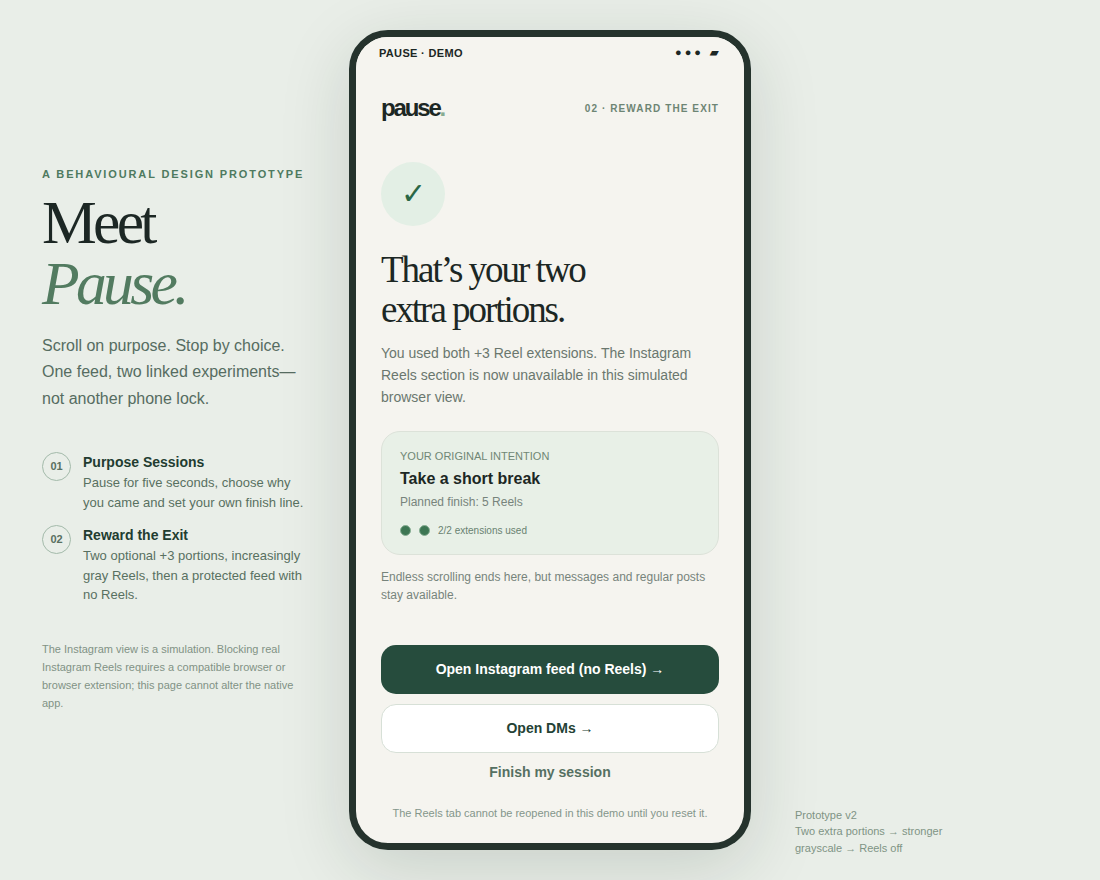
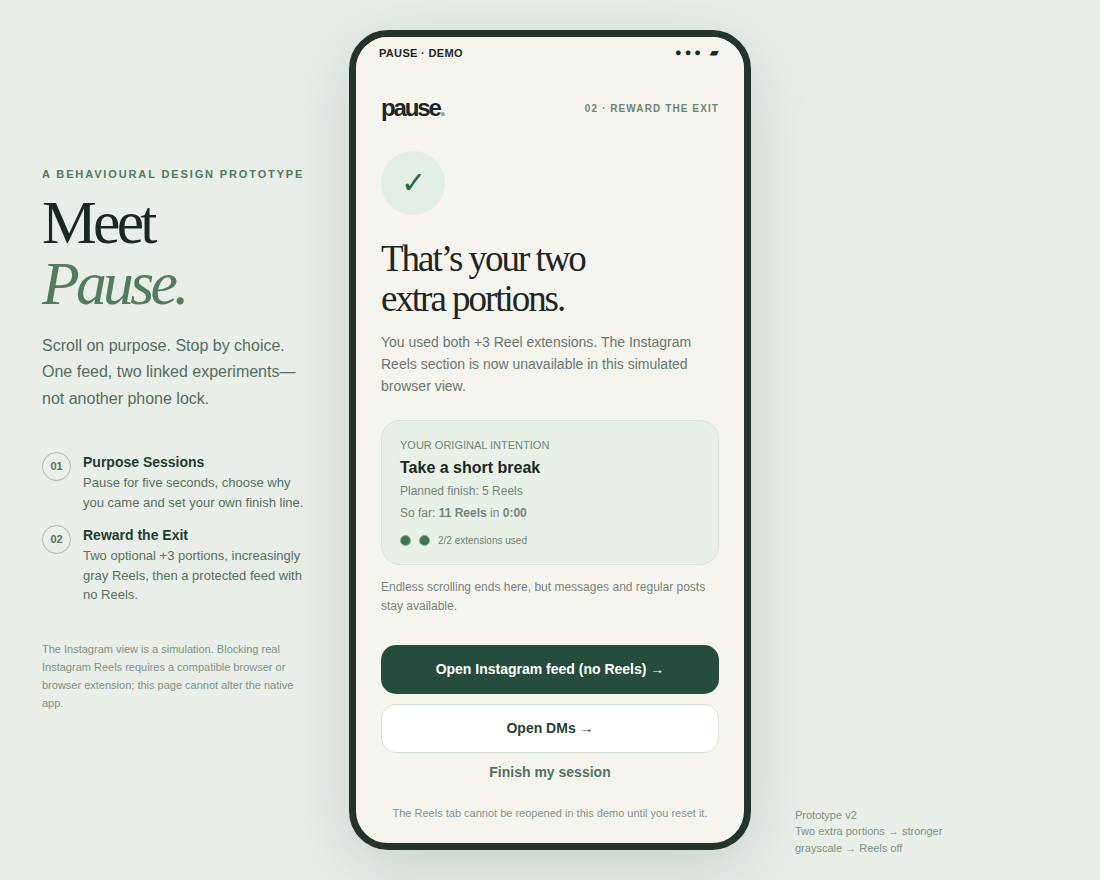
Show Reels and time together; real learning cards; personal exit options
- Instagram-style app icon on the home screen
- The Reels counter always shows count and time (e.g. 17 Reels · 1:52 / 2:00);
  the checkpoint repeats it
- Commitment 3 asks what you're curious about (psychology, finance, science,
  history, languages); the learning detour shows one short card per interest
  with a clear ending
- Exit suggests up to three optional next steps matched to reason for opening,
  interest and available time (2/10/30 min), including a two-minute puzzle;
  "I'm done for now" is always available
- README and preview images updated

Claude-Session: https://claude.ai/code/session_01DMhTpXsU3YFuW6W5HLrjFW

Changed region(s): [[0.34, 0.2761, 0.6491, 0.4602], [0.34, 0.4909, 0.6491, 0.7057], [0.3709, 0.1841, 0.4018, 0.2148]]

diff --git a/index.html b/index.html
@@ -144,6 +144,19 @@
     .phone-home{position:relative}
     .ph-toast{position:absolute;left:50%;bottom:170px;transform:translateX(-50%);background:rgba(20,32,36,.9);color:#fff;font-size:13px;padding:9px 14px;border-radius:12px;white-space:nowrap;opacity:0;transition:opacity .2s;pointer-events:none}
     .ph-toast.show{opacity:1}
+    .reel-cam{justify-self:end;width:26px;height:26px}.reel-cam svg{width:26px;height:26px}
+    .reel-stats{position:absolute;top:70px;left:50%;transform:translateX(-50%);z-index:3;font-size:11.5px;font-weight:650;padding:5px 11px;border-radius:999px;background:rgba(0,0,0,.45);white-space:nowrap;font-variant-numeric:tabular-nums}
+    .reel-stats.gray{background:rgba(40,40,40,.7)}
+    .lesson-card{gap:10px}.lesson-card p{margin:0}
+    .try-this{background:#fffefa;border:1px solid #d6e4d6;border-radius:12px;padding:10px 12px;font-size:13px;line-height:1.5;color:#35523f}.try-this b{display:block;font-size:11px;letter-spacing:.08em;text-transform:uppercase;color:#4e7a5f;margin-bottom:3px}
+    .card-source{font-size:11px!important;color:#7d917f!important}
+    .card-end{font-size:12px!important;font-weight:700;color:#305c45!important;border-top:1px solid #cfdccf;padding-top:8px}
+    .next-list{display:grid;gap:8px}
+    .next-opt{position:relative;display:flex;flex-direction:column;align-items:flex-start;gap:2px;text-align:left;border:1px solid #dfe5dc;background:#fffefa;border-radius:14px;padding:11px 60px 11px 13px;color:#244235}
+    .next-opt b{font-size:13.5px}.next-opt span{font-size:12px;color:#6d7b6e}
+    .next-opt em{position:absolute;right:12px;top:12px;font-style:normal;font-size:11px;font-weight:700;color:#5c7d66;background:#e7f0e7;border-radius:999px;padding:2px 8px}
+    .next-opt.picked{border-color:#57886a;background:#e4efe6;box-shadow:inset 0 0 0 1px #57886a}
+    .next-note{margin-top:10px;font-size:12.5px;color:#31533c;text-align:center}
   </style>
 </head>
 <body>
@@ -170,20 +183,35 @@
   const OPTIONS={
     reasons:[['friends','Catch up with friends'],['break','Take a short break'],['learn','Find something useful'],['habit','Just felt like scrolling']],
     limits:[['5','5 Reels'],['10','10 Reels'],['120','2 minutes']],
-    afters:[['reading','Read something'],['move','Move a little'],['learn','Learn something'],['rest','Rest my eyes']]
+    interests:[['psychology','Psychology'],['finance','Finance'],['science','Science'],['history','History'],['languages','Languages']]
   };
-  const lessons={
-    reading:{label:'Reading · 30 seconds',title:'The one-sentence takeaway',body:'Think of the last article or chapter you enjoyed. Can you explain its most interesting idea in one sentence?'},
-    move:{label:'Movement · 30 seconds',title:'The posture reset',body:'Stand up, relax your shoulders and slowly look left and right. Notice whether your body feels different from a moment ago.'},
-    learn:{label:'Curiosity · 30 seconds',title:'Explain it like a beginner',body:'Pick something you learned recently. Try explaining it aloud in two sentences without using jargon.'},
-    rest:{label:'Mindful break · 30 seconds',title:'Notice three details',body:'Look away from your screen and notice three details in your surroundings you normally overlook.'}
+  /* One short card per interest, each with a clear ending. */
+  const CARDS={
+    psychology:{title:'Why you keep checking: variable rewards',body:['In the 1950s, B. F. Skinner found that animals rewarded on an unpredictable schedule kept pressing a lever far longer than animals rewarded every time. Not knowing when the next reward comes is what keeps the behaviour going.','Feeds work the same way. Most posts are forgettable, but now and then one is great, and you can’t tell which swipe will bring it. So “just one more” always feels worth it.'],tryThis:'Next time you reach for a refresh, notice the little “maybe this one” feeling. Naming it makes it easier to put the phone down.',source:'Based on Ferster & Skinner, Schedules of Reinforcement (1957).'},
+    finance:{title:'The rule of 72',body:['To estimate how long money takes to double, divide 72 by the yearly growth rate. At 6% a year, savings double in about 12 years (72 ÷ 6). At 9%, about 8 years.','It works backwards too: debt at 18% a year doubles in about 4 years if you don’t pay it down. The same maths that builds savings also makes debt grow fast.'],tryThis:'Look up the interest rate on one account or card you have and divide 72 by it.',source:'A standard approximation for compound growth; most accurate between about 4% and 12%.'},
+    science:{title:'Why the sky is blue',body:['Sunlight contains every colour. As it passes through the air, tiny gas molecules scatter short wavelengths (blue) much more strongly than long ones (red). That scattered blue light reaches your eyes from every direction, so the whole sky looks blue.','At sunset, light travels through far more air to reach you. Most of the blue is scattered away before it arrives, leaving the oranges and reds.'],tryThis:'Next sunset, notice that the sky overhead often stays blue while the horizon turns orange.',source:'This effect is called Rayleigh scattering.'},
+    history:{title:'The printing press changed who could know things',body:['Around 1440, Johannes Gutenberg in Mainz combined movable metal type with a screw press. Before that, most books in Europe were copied by hand, and a single book could take months.','Within about 50 years, printing presses were running in more than 200 European cities. Books became cheaper, ideas spread faster, and far more people could read for themselves.'],tryThis:'Think about which modern invention you’d compare to it, and why.',source:'Gutenberg’s printing began in Mainz in the 1440s–1450s.'},
+    languages:{title:'Saudade (Portuguese)',body:['Saudade is a Portuguese word for a deep, bittersweet longing for someone or something you love that is absent, and may never come back. It mixes sadness with warmth, because missing something means it mattered.','It’s often called untranslatable. English needs a whole sentence for what Portuguese says in one word.'],tryThis:'Say it out loud: “sow-DAH-jee” (Brazilian) or “sow-DAHD” (European). Who or what do you feel saudade for?',source:'A central idea in Portuguese and Brazilian music, especially fado.'}
   };
-  const alternatives={
-    reading:{title:'Read just two pages',desc:'Start with a book, article or saved piece you actually want to read.',emoji:'▤'},
-    move:{title:'Take a two-minute walk',desc:'Get up, stretch or step outside. A tiny change of scene counts.',emoji:'↗'},
-    learn:{title:'Learn one useful thing',desc:'Try a 30-second micro-learning card from your interests.',emoji:'✦'},
-    rest:{title:'Take a proper breather',desc:'Put the phone down and give your eyes a few screen-free moments.',emoji:'◌'}
-  };
+  /* Two-minute puzzles with a clear answer (classic cognitive-reflection questions). */
+  const PUZZLES=[
+    {q:'A bat and a ball cost $1.10 in total. The bat costs $1.00 more than the ball. How much does the ball cost?',a:'5 cents. (Not 10: then the bat would be $1.10 and the total $1.20.)'},
+    {q:'If 5 machines take 5 minutes to make 5 widgets, how long would 100 machines take to make 100 widgets?',a:'5 minutes. Each machine makes one widget in 5 minutes.'},
+    {q:'A patch of lily pads doubles in size every day. It takes 48 days to cover the whole lake. How long to cover half the lake?',a:'47 days. One more doubling covers the rest.'}
+  ];
+  /* Optional next steps, matched to the reason for opening, the interest and the time available. */
+  const NEXT=[
+    {id:'card',mins:2,reasons:['learn','habit','break','friends'],title:i=>`Learn one thing about ${i}`,desc:'A one-minute card with a clear ending.'},
+    {id:'puzzle',mins:2,reasons:['habit','break'],title:()=>'Try a two-minute puzzle',desc:'One question, one answer. Then you’re done.'},
+    {id:'message',mins:2,reasons:['friends'],title:()=>'Message one friend directly',desc:'Skip the feed and send one real message.'},
+    {id:'eyes',mins:2,reasons:['break'],title:()=>'Rest your eyes',desc:'Look at something far away for twenty seconds.'},
+    {id:'walk',mins:10,reasons:['habit','break'],title:()=>'Take a short walk',desc:'A change of scene, no phone needed.'},
+    {id:'call',mins:10,reasons:['friends'],title:()=>'Call someone you’ve been meaning to',desc:'Ten minutes of real conversation.'},
+    {id:'article',mins:10,reasons:['learn','habit'],title:i=>`Read a saved article about ${i}`,desc:'Something you chose earlier, not something the feed chose.'},
+    {id:'podcast',mins:30,reasons:['learn','break','habit'],title:i=>`Listen to a ${i} podcast episode`,desc:'Good on a walk, too.'},
+    {id:'plan',mins:30,reasons:['friends'],title:()=>'Plan a meetup',desc:'Turn “we should hang out” into a date.'}
+  ];
+  const TIMES=[['2','2 minutes'],['10','10 minutes'],['30','30 minutes']];
   /* Photos: Kodak Lossless True Color Image Suite, released by Eastman Kodak for unrestricted use. */
   const FEED=[
     {img:'kodim23',pos:'45% 50%',user:'birdwatch.daily',color:'#2f8f5b',cap:'Two very talkative neighbours 🦜',audio:'Original audio',likes:'48.2K',comments:'612'},
@@ -201,13 +229,13 @@
     {img:'kodim10',pos:'50% 45%',user:'regatta.club',color:'#e0a100',cap:'Leaning into it.',audio:'Sea Breeze · regatta.club',likes:'11.3K',comments:'152'},
     {img:'kodim24',pos:'60% 50%',user:'alpine.villages',color:'#7a5a3c',cap:'Every house here is painted by hand.',audio:'Original audio',likes:'26.8K',comments:'377'}
   ];
-  const defaults={reason:'break',limit:'5',after:'reading',grayscale:true,platform:'instagram'};
+  const defaults={reason:'break',limit:'5',interest:'psychology',freeTime:'10',grayscale:true,platform:'instagram'};
   let saved={};try{saved=JSON.parse(localStorage.getItem('pause_prefs')||'{}')||{}}catch(e){}
   let prefs={...defaults,...saved,platform:'instagram'};
   // New v2 default is on even for people who turned off the experimental v1 setting.
   try{if(localStorage.getItem('pause_prefs_version')!=='2')prefs.grayscale=true;}catch(e){}
   let existingGate=false;try{existingGate=sessionStorage.getItem('pause_instagram_reels_disabled')==='true'}catch(e){}
-  let state={screen:'home',countdown:5,learnFrom:'pause',reason:prefs.reason,limit:prefs.limit,after:prefs.after,grayscale:prefs.grayscale,platform:prefs.platform||'instagram',views:0,checkpoint:5,progress:0,elapsed:0,sessionStart:0,noticeShown:false,notice:false,finishedBy:'',history:[],extraRounds:0,extraRoundStart:0,reelsDisabled:existingGate,restrictedTab:'feed',activeChat:'Alex',messages:{Alex:[],Sam:[],Maya:[]}};
+  let state={screen:'home',countdown:5,learnFrom:'pause',reason:prefs.reason,limit:prefs.limit,interest:OPTIONS.interests.some(x=>x[0]===prefs.interest)?prefs.interest:'psychology',freeTime:prefs.freeTime||'10',nextPick:'',puzzle:0,grayscale:prefs.grayscale,platform:prefs.platform||'instagram',views:0,checkpoint:5,progress:0,elapsed:0,sessionStart:0,noticeShown:false,notice:false,finishedBy:'',history:[],extraRounds:0,extraRoundStart:0,reelsDisabled:existingGate,restrictedTab:'feed',activeChat:'Alex',messages:{Alex:[],Sam:[],Maya:[]}};
   let countdownTimer=null,feedTimer=null,noticeTimer=null,lastTick=0,lastWheel=0,touchY=null;
   const esc=s=>String(s).replace(/[&<>"']/g,c=>({'&':'&amp;','<':'&lt;','>':'&gt;','"':'&quot;',"'":'&#39;'}[c]));
   const selected=(kind,v)=>state[kind]===v?' selected':'';
@@ -215,9 +243,11 @@
   const brand=()=>'<span class="brand" aria-label="Pause">pause<i>.</i></span>';
   const step=n=>`<span class="step-label">${n}</span>`;
   const time=secs=>{const s=Math.max(0,Math.floor(secs));return `${Math.floor(s/60)}:${String(s%60).padStart(2,'0')}`};
-  const save=()=>{prefs={reason:state.reason,limit:state.limit,after:state.after,grayscale:state.grayscale,platform:state.platform};try{localStorage.setItem('pause_prefs',JSON.stringify(prefs));localStorage.setItem('pause_prefs_version','2')}catch(e){}};
+  const save=()=>{prefs={reason:state.reason,limit:state.limit,interest:state.interest,freeTime:state.freeTime,grayscale:state.grayscale,platform:state.platform};try{localStorage.setItem('pause_prefs',JSON.stringify(prefs));localStorage.setItem('pause_prefs_version','2')}catch(e){}};
   const grayPercent=()=>{if(!state.grayscale||state.extraRounds===0)return 0;const n=Math.max(0,Math.min(2,state.views-state.extraRoundStart))+Math.min(1,state.progress/100);return Math.min(100,Math.round((state.extraRounds===1?35:70)+n*10));};
-  const displayCount=()=>state.extraRounds?`Extra ${Math.min(3,state.views-state.extraRoundStart+1)} / 3`:state.limit==='120'?`${time(state.elapsed)} / 2:00`:`${state.views} / ${state.checkpoint} Reels`;
+  const displayCount=()=>{const t=time(state.elapsed);
+    if(state.extraRounds)return `Extra ${Math.min(3,state.views-state.extraRoundStart+1)} of 3 · ${state.views} Reels · ${t} · ${grayPercent()}% gray`;
+    return state.limit==='120'?`${state.views} Reels · ${t} / 2:00`:`${state.views} / ${state.checkpoint} Reels · ${t}`;};
   const protectInstagram=()=>{if(state.platform==='instagram'){state.reelsDisabled=true;try{sessionStorage.setItem('pause_instagram_reels_disabled','true')}catch(e){}}};
   const clearTimers=()=>{clearInterval(countdownTimer);clearInterval(feedTimer);clearTimeout(noticeTimer);countdownTimer=feedTimer=noticeTimer=null;};
   const render=()=>{root.className='screen '+(state.screen==='home'?'home-screen':state.screen==='feed'?'feed-screen':state.screen==='setup'?'setup-panel':state.screen.startsWith('protected-')?'protected-screen':'');
@@ -225,6 +255,7 @@
     if(state.screen==='pause')root.innerHTML=pause();
     if(state.screen==='setup')root.innerHTML=setup();
     if(state.screen==='learn')root.innerHTML=learn();
+    if(state.screen==='puzzle')root.innerHTML=puzzle();
     if(state.screen==='feed')root.innerHTML=feed();
     if(state.screen==='checkpoint')root.innerHTML=checkpoint();
     if(state.screen==='exit')root.innerHTML=exitScreen();
@@ -259,27 +290,37 @@
   </div>`}
   function setup(){const reasonOpts=OPTIONS.reasons.map(([k,v])=>`<button class="pill${selected('reason',k)}" data-set="reason" data-value="${k}" aria-pressed="${state.reason===k}">${v}</button>`).join('');
     const limitOpts=OPTIONS.limits.map(([k,v])=>`<button class="pill${selected('limit',k)}" data-set="limit" data-value="${k}" aria-pressed="${state.limit===k}">${v}</button>`).join('');
-    const afterOpts=OPTIONS.afters.map(([k,v])=>`<button class="pill${selected('after',k)}" data-set="after" data-value="${k}" aria-pressed="${state.after===k}">${v}</button>`).join('');
+    const interestOpts=OPTIONS.interests.map(([k,v])=>`<button class="pill${selected('interest',k)}" data-set="interest" data-value="${k}" aria-pressed="${state.interest===k}">${v}</button>`).join('');
     return `<div class="inner">
       <div class="brand-row"><button class="btn text btn-sm" data-action="back-pause">← Back</button>${step('01 · PURPOSE SESSIONS')}</div>
       <h2 style="margin:16px 0 6px">Three little<br/>commitments.</h2><p class="lede" style="margin-bottom:19px">Set them once. Change them anytime.</p>
       <section class="card rule-card"><div class="rule-label"><span class="rule-number">1</span> Why am I here?</div><div class="pill-grid">${reasonOpts}</div></section>
       <section class="card rule-card"><div class="rule-label"><span class="rule-number">2</span> Where's my finish line?</div><div class="pill-grid three">${limitOpts}</div></section>
-      <section class="card rule-card"><div class="rule-label"><span class="rule-number">3</span> What might I do afterwards?</div><div class="pill-grid">${afterOpts}</div></section>
+      <section class="card rule-card"><div class="rule-label"><span class="rule-number">3</span> What are you curious about?</div><div class="pill-grid three">${interestOpts}</div></section>
     </div>
     <div class="setup-footer"><div class="switch-row gray-setting"><span><b>Progressive grayscale</b><br/><span style="font-size:10px">On by default · starts with the first +3 Reels</span></span><button role="switch" aria-checked="${state.grayscale}" aria-label="Progressive grayscale" class="switch${state.grayscale?' on':''}" data-action="grayscale"></button></div><button class="btn full" data-action="start-feed">Start my session →</button><p class="tip">The first portion stays colourful. Each extra portion gets grayer.</p></div>`;
   }
-  function learn(){const lesson=lessons[state.after];return `<div class="inner">
-     <div class="brand-row"><button class="btn text btn-sm" data-action="learn-back">← Back</button>${step('A MEANINGFUL DETOUR')}</div>
+  function learn(){const c=CARDS[state.interest];const label=nameOf(OPTIONS.interests,state.interest);return `<div class="inner">
+     <div class="brand-row"><button class="btn text btn-sm" data-action="learn-back">← Back</button>${step('LEARN ONE THING')}</div>
+     <h2 style="margin:14px 0 6px">One thing worth<br/>knowing.</h2>
+     <p class="lede" style="margin-bottom:14px">Pick what you’re curious about. One card, then you’re done.</p>
+     <div class="pill-grid three" style="margin-bottom:14px">${OPTIONS.interests.map(([k,v])=>`<button class="pill${selected('interest',k)}" data-set="interest" data-value="${k}" aria-pressed="${state.interest===k}">${v}</button>`).join('')}</div>
+     <article class="lesson-card"><span class="mini-eyebrow">${label} · 1-minute read</span><h3>${c.title}</h3>${c.body.map(t=>`<p>${t}</p>`).join('')}
+       <div class="try-this"><b>Try this</b>${c.tryThis}</div>
+       <p class="card-source">${c.source}</p>
+       <p class="card-end">That’s the whole card.</p></article>
      <div class="spacer"></div>
-     <h2>One small thing<br/>instead of a scroll.</h2>
-     <p class="lede" style="margin-bottom:24px">Your interests don't need an infinite feed. Try this 30-second exercise.</p>
-     <div class="section-title">Choose a topic</div>
-     <div class="pill-grid" style="margin-bottom:16px">${OPTIONS.afters.map(([k,v])=>`<button class="pill${selected('after',k)}" data-set="after" data-value="${k}">${v}</button>`).join('')}</div>
-     <div class="lesson-card"><span class="mini-eyebrow">${lesson.label}</span><h3>${lesson.title}</h3><p>${lesson.body}</p></div>
+     <button class="btn full" data-action="learn-complete">Done, I learned one thing ✓</button>
+     <button class="btn text full" data-action="learn-back">Back</button>
+   </div>`}
+  function puzzle(){const pz=PUZZLES[state.puzzle%PUZZLES.length];return `<div class="inner">
+     <div class="brand-row"><button class="btn text btn-sm" data-action="puzzle-back">← Back</button>${step('TWO-MINUTE PUZZLE')}</div>
      <div class="spacer"></div>
-     <button class="btn full" data-action="learn-complete">That was enough for now ✓</button>
-     <button class="btn text full" data-action="learn-back">Return to my plan</button>
+     <article class="lesson-card"><span class="mini-eyebrow">Think before you answer</span><h3 style="font-size:23px">${pz.q}</h3>
+       ${state.puzzleShown?`<div class="try-this"><b>Answer</b>${pz.a}</div><p class="card-end">That’s it. Puzzle done.</p>`:''}</article>
+     <div class="spacer"></div>
+     ${state.puzzleShown?'<button class="btn full" data-action="go-home">Done ✓</button>':'<button class="btn full" data-action="puzzle-reveal">Show the answer</button>'}
+     <button class="btn text full" data-action="puzzle-back">Back</button>
    </div>`}
   const ICON={
     heart:'<svg viewBox="0 0 24 24" fill="none" stroke="currentColor" stroke-width="1.9" stroke-linejoin="round"><path d="M12 20.3s-7.6-4.6-9.2-9.3C1.7 7.6 4 4.5 7.3 4.5c2 0 3.6 1.1 4.7 2.8 1.1-1.7 2.7-2.8 4.7-2.8 3.3 0 5.6 3.1 4.5 6.5-1.6 4.7-9.2 9.3-9.2 9.3z"/></svg>',
@@ -312,7 +353,7 @@
     ['Settings','#8e8e93',`<svg viewBox="0 0 24 24" fill="none" stroke="#fff" stroke-width="1.8" stroke-linecap="round" stroke-linejoin="round"><circle cx="12" cy="12" r="3"/><path d="M12 3.5v2.3M12 18.2v2.3M3.5 12h2.3M18.2 12h2.3M6 6l1.6 1.6M16.4 16.4 18 18M6 18l1.6-1.6M16.4 7.6 18 6"/></svg>`],
     ['Files','#2f7de1',`<svg viewBox="0 0 24 24" fill="none" stroke="#fff" stroke-width="1.8" stroke-linecap="round" stroke-linejoin="round"><path d="M4 7h6l2 2h8v10H4z"/></svg>`]
   ]};
-  const IG_GLYPH='<svg viewBox="0 0 24 24" fill="none" stroke="#fff" stroke-width="1.8" stroke-linejoin="round"><path d="M4 8.5h3l1.6-2.5h6.8L17 8.5h3V19H4z"/><circle cx="12" cy="13.3" r="3.4"/></svg>';
+  const IG_GLYPH='<svg viewBox="0 0 24 24" fill="none" stroke="#fff" stroke-width="2"><rect x="3.5" y="3.5" width="17" height="17" rx="5"/><circle cx="12" cy="12" r="4"/><circle cx="17.1" cy="6.9" r="1.1" fill="#fff" stroke="none"/></svg>';
   function currentReel(){return FEED[(Math.max(1,state.views)-1)%FEED.length]}
   function feed(){const reel=currentReel();const gray=grayPercent();const ig=state.platform==='instagram';
     return `<div class="reel" aria-label="Simulated Instagram Reels feed. Swipe up, scroll or use the arrow for the next one.">
@@ -321,10 +362,10 @@
       <div class="reel-top">
         <button class="reel-finish" data-action="early-exit">Finish</button>
         <span class="reel-title">Reels</span>
-        <span class="reel-count" id="feed-count">${displayCount()}</span>
+        <span class="reel-cam" aria-hidden="true">${ICON.camera}</span>
       </div>
       <div class="reel-bar"><div id="reel-progress" style="width:${state.progress}%"></div></div>
-      ${state.extraRounds?`<div class="reel-gray" id="gray-label" role="status">Round ${state.extraRounds} of 2 · ${gray}% gray</div>`:''}
+      <div class="reel-stats${state.extraRounds?' gray':''}" id="feed-count" role="status">${displayCount()}</div>
       <div class="reel-rail">
         <button class="like" data-action="like" aria-label="Like">${ICON.heart}<span>${reel.likes}</span></button>
         <button aria-label="Comments">${ICON.comment}<span>${reel.comments}</span></button>
@@ -347,7 +388,7 @@
     <p class="lede">${final?`You used both +3 Reel extensions. The ${noun} Reels section is now unavailable ${state.platform==='instagram'?'in this simulated browser view':'for this demo session'}.`:state.extraRounds===0?`You reached your ${esc(nameOf(OPTIONS.limits,state.limit).toLowerCase())} boundary. The next Reel won't autoplay until you decide.`:`You finished extra portion ${state.extraRounds} of 2. If you choose the last +3, Reels start at 70% grayscale and fade to fully gray.`}</p>
     <div class="card" style="margin:23px 0 13px;background:#e8f0e7">
       <div style="font-size:11px;color:#708775;margin-bottom:8px">YOUR ORIGINAL INTENTION</div>
-      <b>${nameOf(OPTIONS.reasons,state.reason)}</b><div class="small" style="margin-top:5px">Planned finish: ${nameOf(OPTIONS.limits,state.limit)}</div>
+      <b>${nameOf(OPTIONS.reasons,state.reason)}</b><div class="small" style="margin-top:5px">Planned finish: ${nameOf(OPTIONS.limits,state.limit)}</div><div class="small" style="margin-top:3px">So far: <b>${state.views} Reels</b> in <b>${time(state.elapsed)}</b></div>
       <div class="round-indicators" aria-label="${state.extraRounds} of 2 extra portions used"><span class="${state.extraRounds>=1?'used':''}"></span><span class="${state.extraRounds>=2?'used':''}"></span><small>${state.extraRounds}/2 extensions used</small></div>
     </div>
     <p class="small">${final?'Endless scrolling ends here, but messages and regular posts stay available.':'No phone lock. If you choose three more Reels, grayscale starts immediately and gets stronger.'}</p>
@@ -359,18 +400,25 @@
        <button class="btn alt full" style="margin-top:10px" data-action="continue">+3 more Reels ${state.extraRounds===0?'(first extra portion)':'(last extra portion)'}</button>`}
     <p class="tip">${final?'The Reels tab cannot be reopened in this demo until you reset it.':'You can always stop earlier.'}</p>
   </div>`}
-  function exitScreen(){const a=alternatives[state.after],early=state.finishedBy==='early',detour=state.finishedBy==='learn';const title=detour?'You chose a different kind of break.':early?'You decided when to stop.':'You reached your finish line.';
+  function nextOptions(){const mins=Number(state.freeTime);const interest=nameOf(OPTIONS.interests,state.interest).toLowerCase();
+    let list=NEXT.filter(n=>n.mins<=mins&&n.reasons.includes(state.reason));
+    list.sort((a,b)=>(b.id==='card'&&state.reason==='learn')-(a.id==='card'&&state.reason==='learn')||b.mins-a.mins);
+    return list.slice(0,3).map(n=>({...n,label:n.title(interest)}));}
+  function exitScreen(){const early=state.finishedBy==='early',detour=state.finishedBy==='learn';const title=detour?'You chose a different kind of break.':early?'You decided when to stop.':'You reached your finish line.';
+    const why=nameOf(OPTIONS.reasons,state.reason).toLowerCase();const opts=nextOptions();const picked=opts.find(o=>o.id===state.nextPick);
     return `<div class="inner">
-      <div class="brand-row">${brand()}${step('02 · REWARD THE EXIT')}</div><div class="spacer"></div>
-      <div class="checkmark">✓</div><h2>${title}</h2>
-      <p class="lede">No streaks, points or pressure. The reward is getting back to something you actually wanted to do.</p>
-      ${detour?'':`<div class="stat-grid" style="margin:24px 0"><div class="stat"><strong>${state.views}</strong><small>Posts viewed</small></div><div class="stat"><strong>${time(state.elapsed)}</strong><small>Time in feed</small></div></div>`}
-      <div class="section-title" style="margin:24px 0 12px">Your next small thing <span>Based on your choice</span></div>
-      <div class="choice-box"><div class="choice-icon">${a.emoji}</div><div><h3>${a.title}</h3><p>${a.desc}</p></div></div>
+      <div class="brand-row">${brand()}${step('02 · REWARD THE EXIT')}</div>
+      <div class="checkmark" style="margin:18px 0 16px">✓</div><h2>${title}</h2>
+      ${detour?'':`<div class="stat-grid" style="margin:14px 0 4px"><div class="stat"><strong>${state.views}</strong><small>Reels watched</small></div><div class="stat"><strong>${time(state.elapsed)}</strong><small>Time in feed</small></div></div>`}
+      <div class="section-title" style="margin:20px 0 8px">Want a next step? <span>Optional</span></div>
+      <p class="small" style="margin-bottom:10px">You came to ${esc(why)}. How much time do you have?</p>
+      <div class="pill-grid three" style="margin-bottom:10px">${TIMES.map(([k,v])=>`<button class="pill${selected('freeTime',k)}" data-set="freeTime" data-value="${k}" aria-pressed="${state.freeTime===k}" style="text-align:center">${v}</button>`).join('')}</div>
+      <div class="next-list">${opts.map(o=>`<button class="next-opt${state.nextPick===o.id?' picked':''}" data-action="pick-next" data-next="${o.id}"><b>${o.label}</b><span>${o.desc}</span><em>${o.mins} min</em></button>`).join('')}</div>
+      ${picked&&!['card','puzzle'].includes(picked.id)?`<p class="next-note">Good choice. Enjoy it, no need to report back.</p>`:''}
       <div class="spacer"></div>
-      ${state.after==='learn'?'<button class="btn full" data-action="learn-from-exit">Try my 30-second learning card →</button>':'<button class="btn full" data-action="go-home">Sounds good. I’m done.</button>'}
-      ${state.reelsDisabled&&state.platform==='instagram'?'<button class="btn alt full" data-action="protected-feed">Continue with Instagram feed (no Reels)</button>':state.after==='learn'?'<button class="btn text full" data-action="go-home">I’ll do that later</button>':'<button class="btn text full" data-action="open">Start another intentional session</button>'}
-      <p class="tip">Ending your session is the reward. You don’t have to prove what you did next.</p>
+      <button class="btn full" data-action="go-home">${picked?'Done':'I’m done for now'}</button>
+      ${state.reelsDisabled?'<button class="btn text full" data-action="protected-feed">Continue with Instagram feed (no Reels)</button>':''}
+      <p class="tip">Ending your session is the reward. You don’t have to do anything else.</p>
     </div>`}
   const mockPosts=[
     {img:'kodim22',user:'maya.outdoors',place:'Hollow Creek Farm',color:'#a8322d',likes:'1,204',cap:'Weekend at the farm. No signal, no complaints.',comments:23,time:'2 hours ago'},
@@ -430,7 +478,7 @@
     if(reach){clearInterval(feedTimer);if(state.extraRounds>=2)protectInstagram();state.screen='checkpoint';state.notice=false;render();return}
     state.views++;state.progress=0;
     if(!state.noticeShown&&((state.extraRounds===0&&state.limit==='120'&&state.elapsed>50)||(state.extraRounds===0&&state.limit!=='120'&&state.views===Math.ceil(Number(state.limit)/2)))){state.notice=true;state.noticeShown=true;clearTimeout(noticeTimer);noticeTimer=setTimeout(()=>{if(state.screen==='feed'&&state.notice){state.notice=false;const n=root.querySelector('.feed-nudge');if(n)n.remove()}},4200)}render();lastTick=performance.now()}
-  function finish(how){clearTimers();state.screen='exit';state.finishedBy=how;render()}
+  function finish(how){clearTimers();state.screen='exit';state.finishedBy=how;state.nextPick='';render()}
   function continueAfter(){if(state.extraRounds>=2)return;state.extraRounds++;state.views++;state.extraRoundStart=state.views;state.checkpoint=state.views+2;state.notice=false;state.screen='feed';state.progress=0;clearInterval(feedTimer);lastTick=performance.now();render();feedTimer=setInterval(tick,100)}
   root.addEventListener('click',event=>{
     const choice=event.target.closest('[data-set]');if(choice){const key=choice.dataset.set;state[key]=choice.dataset.value;save();render();return}
@@ -451,6 +499,9 @@
       case 'dismiss-notice':state.notice=false;const n=root.querySelector('.feed-nudge');if(n)n.remove();break;
       case 'early-exit':finish('early');break;case 'finish':finish('limit');break;case 'continue':continueAfter();break;
       case 'learn-from-exit':state.learnFrom='exit';state.screen='learn';render();break;
+      case 'pick-next':{const id=target.dataset.next;state.nextPick=id;if(id==='card'){state.learnFrom='exit';state.screen='learn'}else if(id==='puzzle'){state.puzzle++;state.puzzleShown=false;state.screen='puzzle'}render();break;}
+      case 'puzzle-reveal':state.puzzleShown=true;render();break;
+      case 'puzzle-back':state.screen='exit';render();break;
     }
   });
   root.addEventListener('submit',event=>{if(event.target.id!=='demo-chat')return;event.preventDefault();const input=event.target.querySelector('input[name=message]');const msg=input?.value.trim();if(msg){state.messages[state.activeChat].push(msg.slice(0,180));render();}});

diff --git a/README.md b/README.md
@@ -5,7 +5,7 @@ Double-click `index.html` to use this **offline demo** (keep the `photos/` folde
 ## Exact experience
 
 1. The demo opens on a phone home screen. Tap the **Instagram** app. Pause steps in first with a five-second timer. Instagram is a simulation; the demo does not connect to your account.
-2. Complete the five-second pause and choose the three commitments (why, finish line, after). **Progressive grayscale is checked by default**. It remains off visually during the initial portion.
+2. Complete the five-second pause and choose the three commitments (why you're here, your finish line, and what you're curious about: psychology, finance, science, history or languages). **Progressive grayscale is checked by default**. It remains off visually during the initial portion.
 3. Scroll to the initial finish line (for quick tests, select **5 Reels**) using swipe up, mouse wheel or Next. Select **+3 more Reels** at the checkpoint. The next Reel is a new one, grayscale begins **immediately at 35%** and fades steadily to **65%** across these three Reels.
 4. At the second checkpoint, select the **second and final +3 Reels**. Grayscale begins at **70%** and fades steadily to **100%** across these three Reels.
 5. At the third checkpoint **there is no more +3 button**. The Reels section is disabled and only **regular feed and DMs** remain accessible; the protected view excludes in-feed Reels as well. You can browse sample posts, enter a sample chat, and send a **local-only demo message**.
@@ -22,6 +22,12 @@ Double-click `index.html` to use this **offline demo** (keep the `photos/` folde
 - Only **two** extra portions are possible, and the third checkpoint has no Continue option.
 - After two extra portions, the Instagram mock Reels tab is disabled; regular posts and DMs remain accessible.
 - No plants, points, streaks, or automatic phone locks.
+
+## Making consumption visible, and a better way out
+
+- **Reels and time together:** the counter under the progress bar always shows both, for example "17 Reels · 1:52 / 2:00". The checkpoint repeats it ("So far: 17 Reels in 2:00") and the exit screen shows Reels watched and time in feed.
+- **Learn one thing:** instead of scrolling, pick an interest and read one short card with a clear ending ("That's the whole card."). Cards cover variable rewards (psychology), the rule of 72 (finance), why the sky is blue (science), the printing press (history) and *saudade* (languages), each with a "Try this" prompt.
+- **Optional next step:** the exit screen asks how much time you have (2, 10 or 30 minutes) and suggests up to three activities that fit your reason for opening Instagram and your interest. For example, someone who "just felt like scrolling" with 2 minutes gets a learning card or a two-minute puzzle; with 10 minutes, a short walk or a saved article. "I'm done for now" is always there, so no extra activity is required.
 
 ## What the screens look like
 
